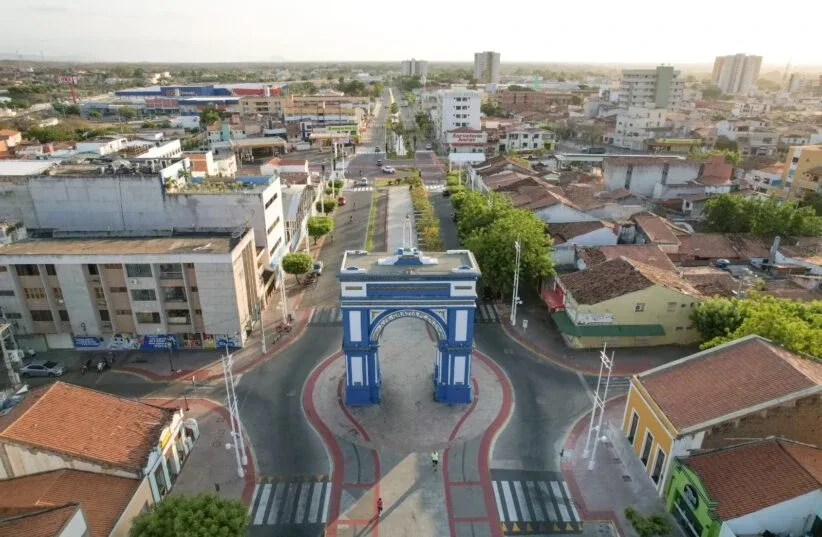
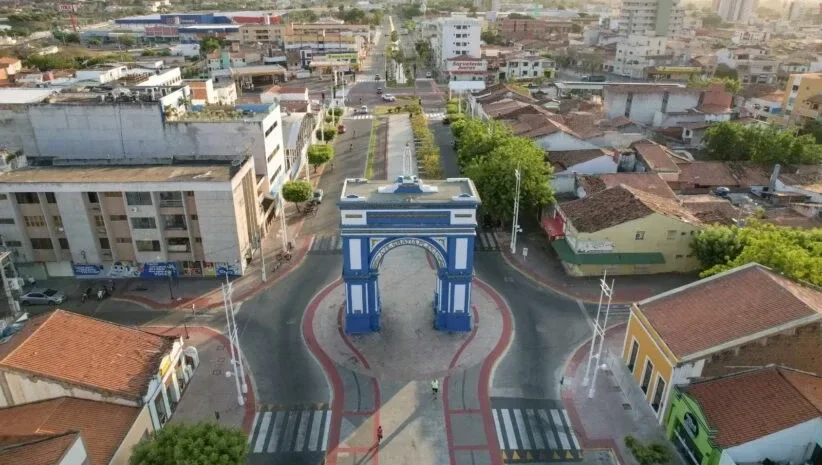
fix: foto de Sobral sem a faixa branca do céu

diff --git a/src/features/finance/financeReport.css b/src/features/finance/financeReport.css
@@ -200,3 +200,6 @@
   .dashboard-shell .finance-branch-tile b { margin-top: 2px; color: #14262f; text-shadow: none; }
   .dashboard-shell .finance-branch-tile b.finance-negative { color: #c4532c; }
 }
+@media (min-width: 901px) {
+  .dashboard-shell .finance-branch-tile.region-sobral::before { background-size: cover; background-position: center; }
+}
